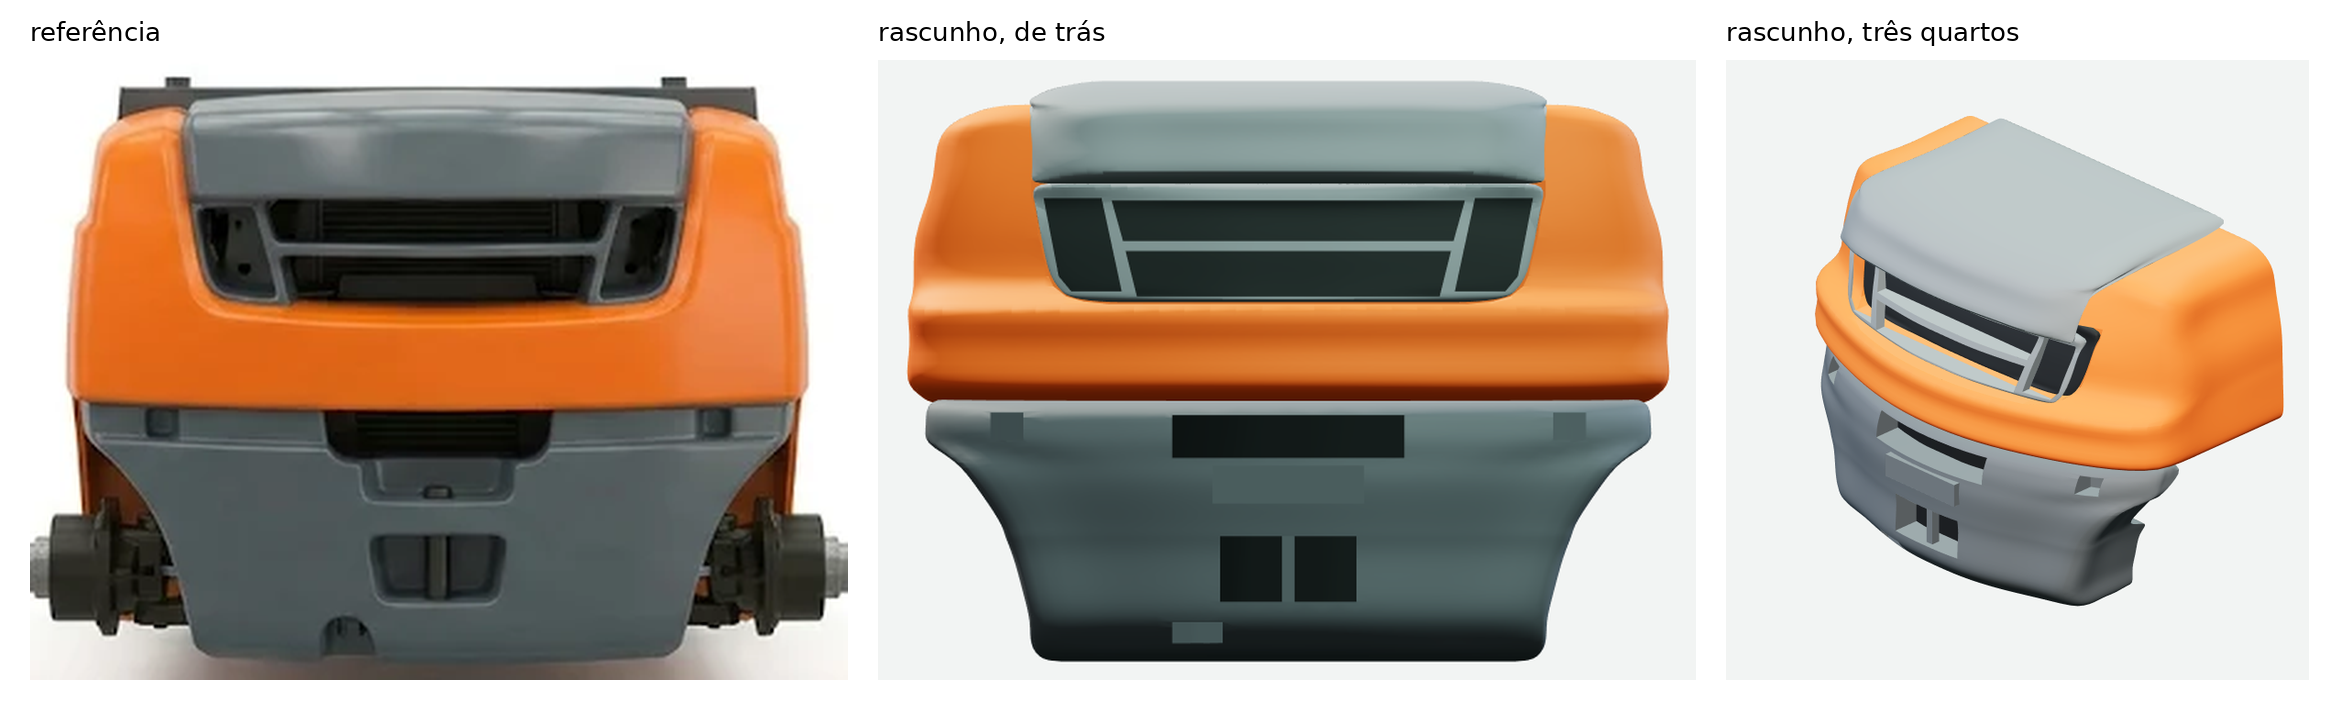
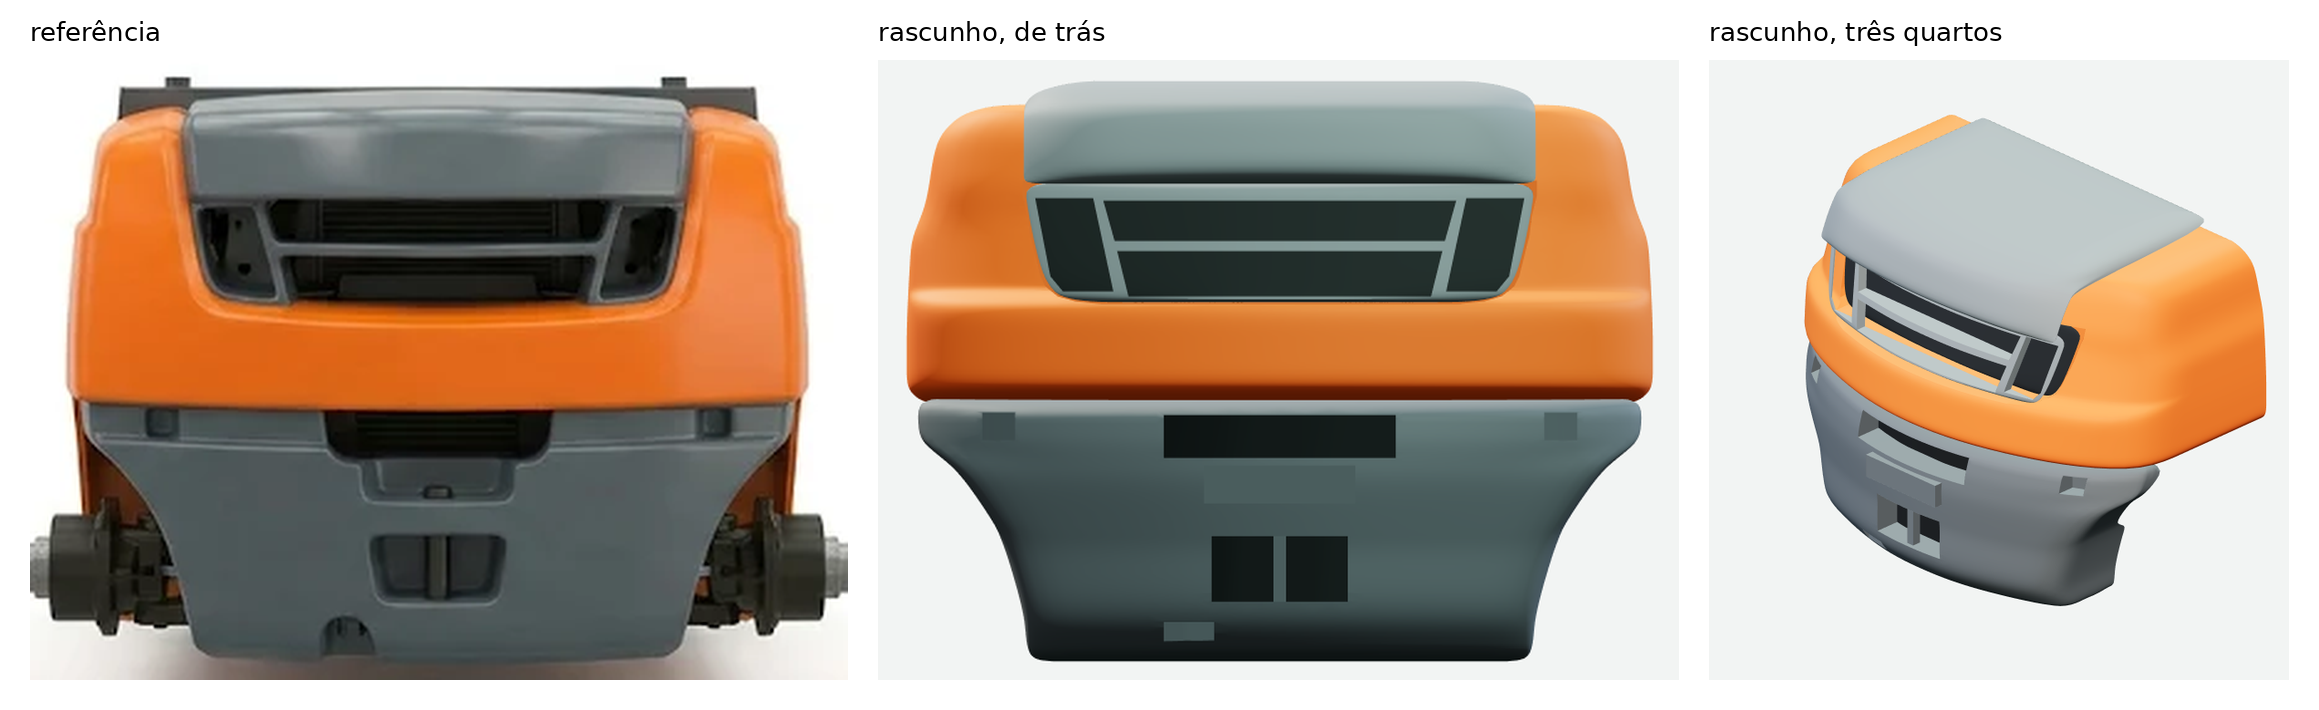
Empilhadeira: traseira sem a ondulação da compensação [skip ci]
Claude-Session: https://claude.ai/code/session_01Gz8kbSKSe3Jte98VbVpGNR

diff --git a/procedural/nucleo/lacos-pelas-vistas.js b/procedural/nucleo/lacos-pelas-vistas.js
@@ -33,6 +33,10 @@
  * O LAÇO CURTO. Onde o intervalo da altura mede menos que os dois recuos somados (a aba de uma tampa, a ponta de um bico), os
  * recuos encolhem por igual até o lado do laço medir `espessuraMinima`, e a altura entra em `avisos`.
  *
+ * SEM COMPENSAR. Com `compensar: true` em `gaiolaPorLacos`, a superfície de um capô de 1.190 mm passou de 10 a 30 mm do pedido e
+ * ondulou depois de cada degrau da silhueta; sem ela, com um laço a cada 20 a 40 mm, a largura sai no pedido e a ponta fica 5 mm
+ * para dentro, sem onda (medido em 2026-11-09, por faixa de altura da malha subdividida). Deixe `compensar` para o arco de cota.
+ *
  * AS RECUSAS. Silhueta que uma altura corta em mais de um intervalo, altura fora da silhueta, perfil fora de ordem e planta com
  * menos de três pontos são recusados com a medida. */
 

diff --git a/docs/modelar/planos/BACKLOG.md b/docs/modelar/planos/BACKLOG.md
@@ -50,7 +50,7 @@ Candidatos ligados à direção de autoria precisam respeitar as invariantes de
 | Conferência de âncora nos links dos documentos | o `docs:links:check` confere o arquivo e não a âncora depois de `#`; um link do backlog ficou apontando um título renomeado até o `nome:check` achar |
 | Camadas antigas da bateria ao lado do seletor | a bateria curta por pasta (`GATES_CURTOS`) e os gates por caminho (`GATES_POR_CAMINHO`) em `tools/gates.mjs` são de antes do seletor e decidem pelo ramo remoto; ver se o seletor sozinho cobre o que elas pulam e tirá-las |
 | Leitura do Python pelo caminho calculado | o registro de leituras anota o arquivo dado a um programa que não é node e a pasta dele, e não o que o script abre por caminho montado dentro dele; um teste de Blender que leia um JSON longe do argumento escaparia, coberto hoje só pelo CI |
-| Divisão por cor do rascunho contra a referência | na traseira da empilhadeira (2026-11-09) a tampa do capô saiu mais larga que o capô porque o perfil de trás foi lido no olho; o que achou e conferiu a correção foi classificar os pixels da vista de referência e da captura do rascunho por cor de material (laranja, cinza, vão escuro), listar os trechos de cada cor por linha e sobrepor as duas divisões. Foi feito em script solto; falta a ferramenta que recebe a vista de referência, a captura e as cores dos materiais e devolve a imagem das duas divisões e a coincidência por classe |
+| Divisão por cor do rascunho contra a referência | na traseira da empilhadeira (2026-11-09) a tampa do capô saiu mais larga que o capô porque o perfil de trás foi lido no olho; o que achou e conferiu a correção foi classificar os pixels da vista de referência e da captura do rascunho por cor de material (laranja, cinza, vão escuro), listar os trechos de cada cor por linha e sobrepor as duas divisões. Foi feito em script solto; falta a ferramenta que recebe a vista de referência, a captura e as cores dos materiais e devolve a imagem das duas divisões e a coincidência por classe. Na mesma traseira, a onda que `compensar` deixou no capô subdividido só foi achada medindo a malha por faixa de altura (meia largura e ponta, contra o perfil e a silhueta pedidos); essa medida também foi feita em script solto e cabe na mesma ferramenta |
 | Captura de tela recusada pelo Chromium | `svgParaPng` em `tools/modelar/esboco.mjs` falhou uma vez no CI com "Unable to capture screenshot" e passou nas rodadas seguintes; sem causa achada, reabrir se repetir Em 2026-11-09 a maquete da empilhadeira repetiu a falha em `npm run esboco:nucleo` (`page.screenshot`): sempre com `--vista direita` ou `esquerda` sozinha e em cerca de metade das capturas de quatro painéis, num ambiente com o headless 1243 no lugar do 1194; tentar a captura de novo resolveria (`docs/modelar/banco-de-provas/empilhadeira-2026-11-09/ATRITOS.md`). No mesmo dia a causa no contêiner apareceu e foi corrigida em `tools/modelar/navegador.mjs` (o 1243 só cria WebGL pelo ANGLE); a falha do CI, no 1194, continua sem causa e o item fica para ela |
 | Traseira da geladeira compacta | a `geladeira-compacta-branca` foi modelada a partir de duas imagens que não mostram a traseira, e ela ficou lisa |
 | Vinco que segue curva livre e quebras de sombra nas cópias | o vinco da subdivisão segue colunas e estações da gaiola, e `espelha` e `arranja` não propagam `quebras`; as vistas da receita ignoram `liso` (fechamento do plano de [carroceria por subdivisão](encerrados/2026-10-21-carroceria-por-subdivisao.md)) |

diff --git a/docs/modelar/banco-de-provas/empilhadeira-2026-11-09/ATRITOS.md b/docs/modelar/banco-de-provas/empilhadeira-2026-11-09/ATRITOS.md
@@ -51,6 +51,11 @@ processo o teria pego sozinho e o destino.
    Destino: `lacosPelasVistas` (`procedural/nucleo/lacos-pelas-vistas.js`, com teste e ficha em `npm run capacidade`)
    dá os laços horizontais de `gaiolaPorLacos` a partir da silhueta de lado, da largura por altura e da planta, com a
    ponta da planta levada à silhueta em toda altura; o rascunho da traseira (`carcaca-traseira.esboco.mjs`) passou a
-   sair dele, com a divisa reta, o bico acompanhando a curva e a superfície lisa da subdivisão. A coincidência por cor
-   caiu de 81% para 70% porque a subdivisão arredonda os cantos e a caixa ficou 2% mais larga no bico; a forma é
-   julgada pela pessoa na imagem.
+   sair dele, com a divisa reta, o bico acompanhando a curva e a superfície lisa da subdivisão.
+8. **O capô subdividido saiu ondulado.** Com `compensar: true` em `gaiolaPorLacos`, a superfície passava de 10 a 30 mm
+   do pedido e fazia uma onda depois de cada degrau da silhueta (o bico do capô), e a caixa ficava 2% mais larga. A
+   comparação por cor só mostrou a queda (de 81% para 70%), sem dizer onde; a pessoa viu as ondas na imagem. Destino: a
+   malha subdividida foi medida por faixa de altura (meia largura e traseira no centro, contra o pedido), o rascunho
+   saiu de `compensar` com um laço a cada 20 a 40 mm (largura no pedido, ponta 5 mm para dentro, cor a 75%), e o
+   limite está escrito no cabeçalho de `lacos-pelas-vistas.js`. A medida por faixa de altura foi feita em script
+   solto; entra no backlog junto da comparação por cor.
